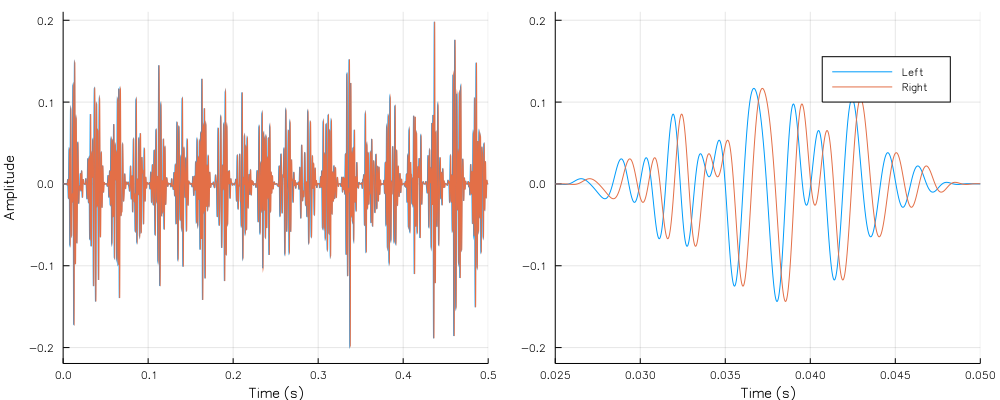
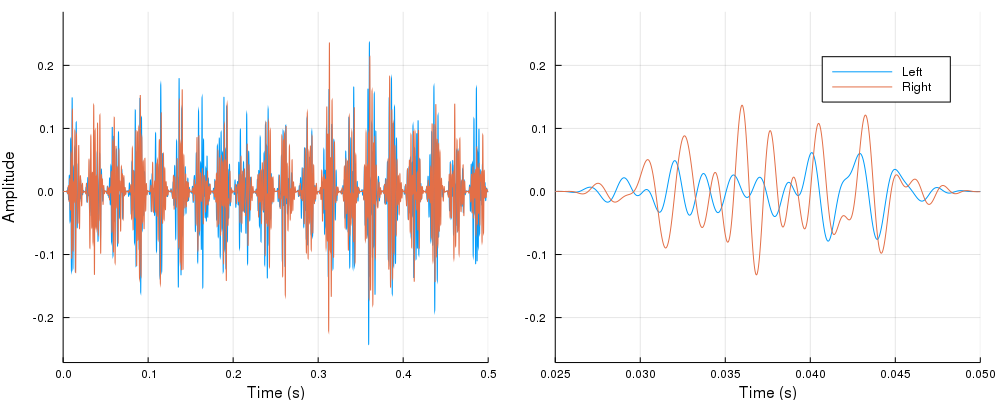
Update spectrogram parameters and examples

diff --git a/README.md b/README.md
@@ -25,14 +25,14 @@ Generate 1.5 s of amplitude modulated (40 Hz) bandpass (300-700 Hz) correlated (
 ```julia
 # Create a signal source and generate 1.5 s of audio
 noise_source = CorrelatedNoiseSource(Float64, sample_rate, audio_channels, 0.3, 0.8)
-correlated_noise = read(noise_source, 1.5u"s")
+correlated_noise = read(noise_source, 1.6u"s")
 
 # Signal modifiers
 filtered_noise = bandpass_filter(correlated_noise, 300u"Hz", 700u"Hz")
-sound_signal = set_RMS(amplitude_modulate(filtered_noise, 40u"Hz"), 0.2)
+sound_signal = set_RMS(amplitude_modulate(filtered_noise, 10u"Hz"), 0.2)
 
 # Plot generated signal
-PlotSpectroTemporal(sound_signal, time_limits = [0.155, 0.345])
+PlotSpectroTemporal(sound_signal, time_limits = [1.2, 1.5])
 ```
 
 ![am_itd](examples/eg2.png)
@@ -56,3 +56,19 @@ plot(a, b, size = (1000, 400))
 ```
 
 ![am_itd](examples/am_itd.png)
+
+
+---------------------------------------------------------------------------------
+
+Generate 6 s of a harmonic complex tone with 200 Hz harmonics
+
+```julia
+source = HarmonicComplex(Float64, 48000, collect(200:200:2400))
+sound = read(source, 6u"s")
+sound = amplitude_modulate(sound, 15u"Hz")
+sound = sound .* 0.03
+PlotSpectroTemporal(sound, frequency_limits = [0, 3000], time_limits = [0.135, 0.33], amplitude_limits = [-0.6, 0.6])
+```
+
+
+![HC](examples/harmonic-complex.png)
